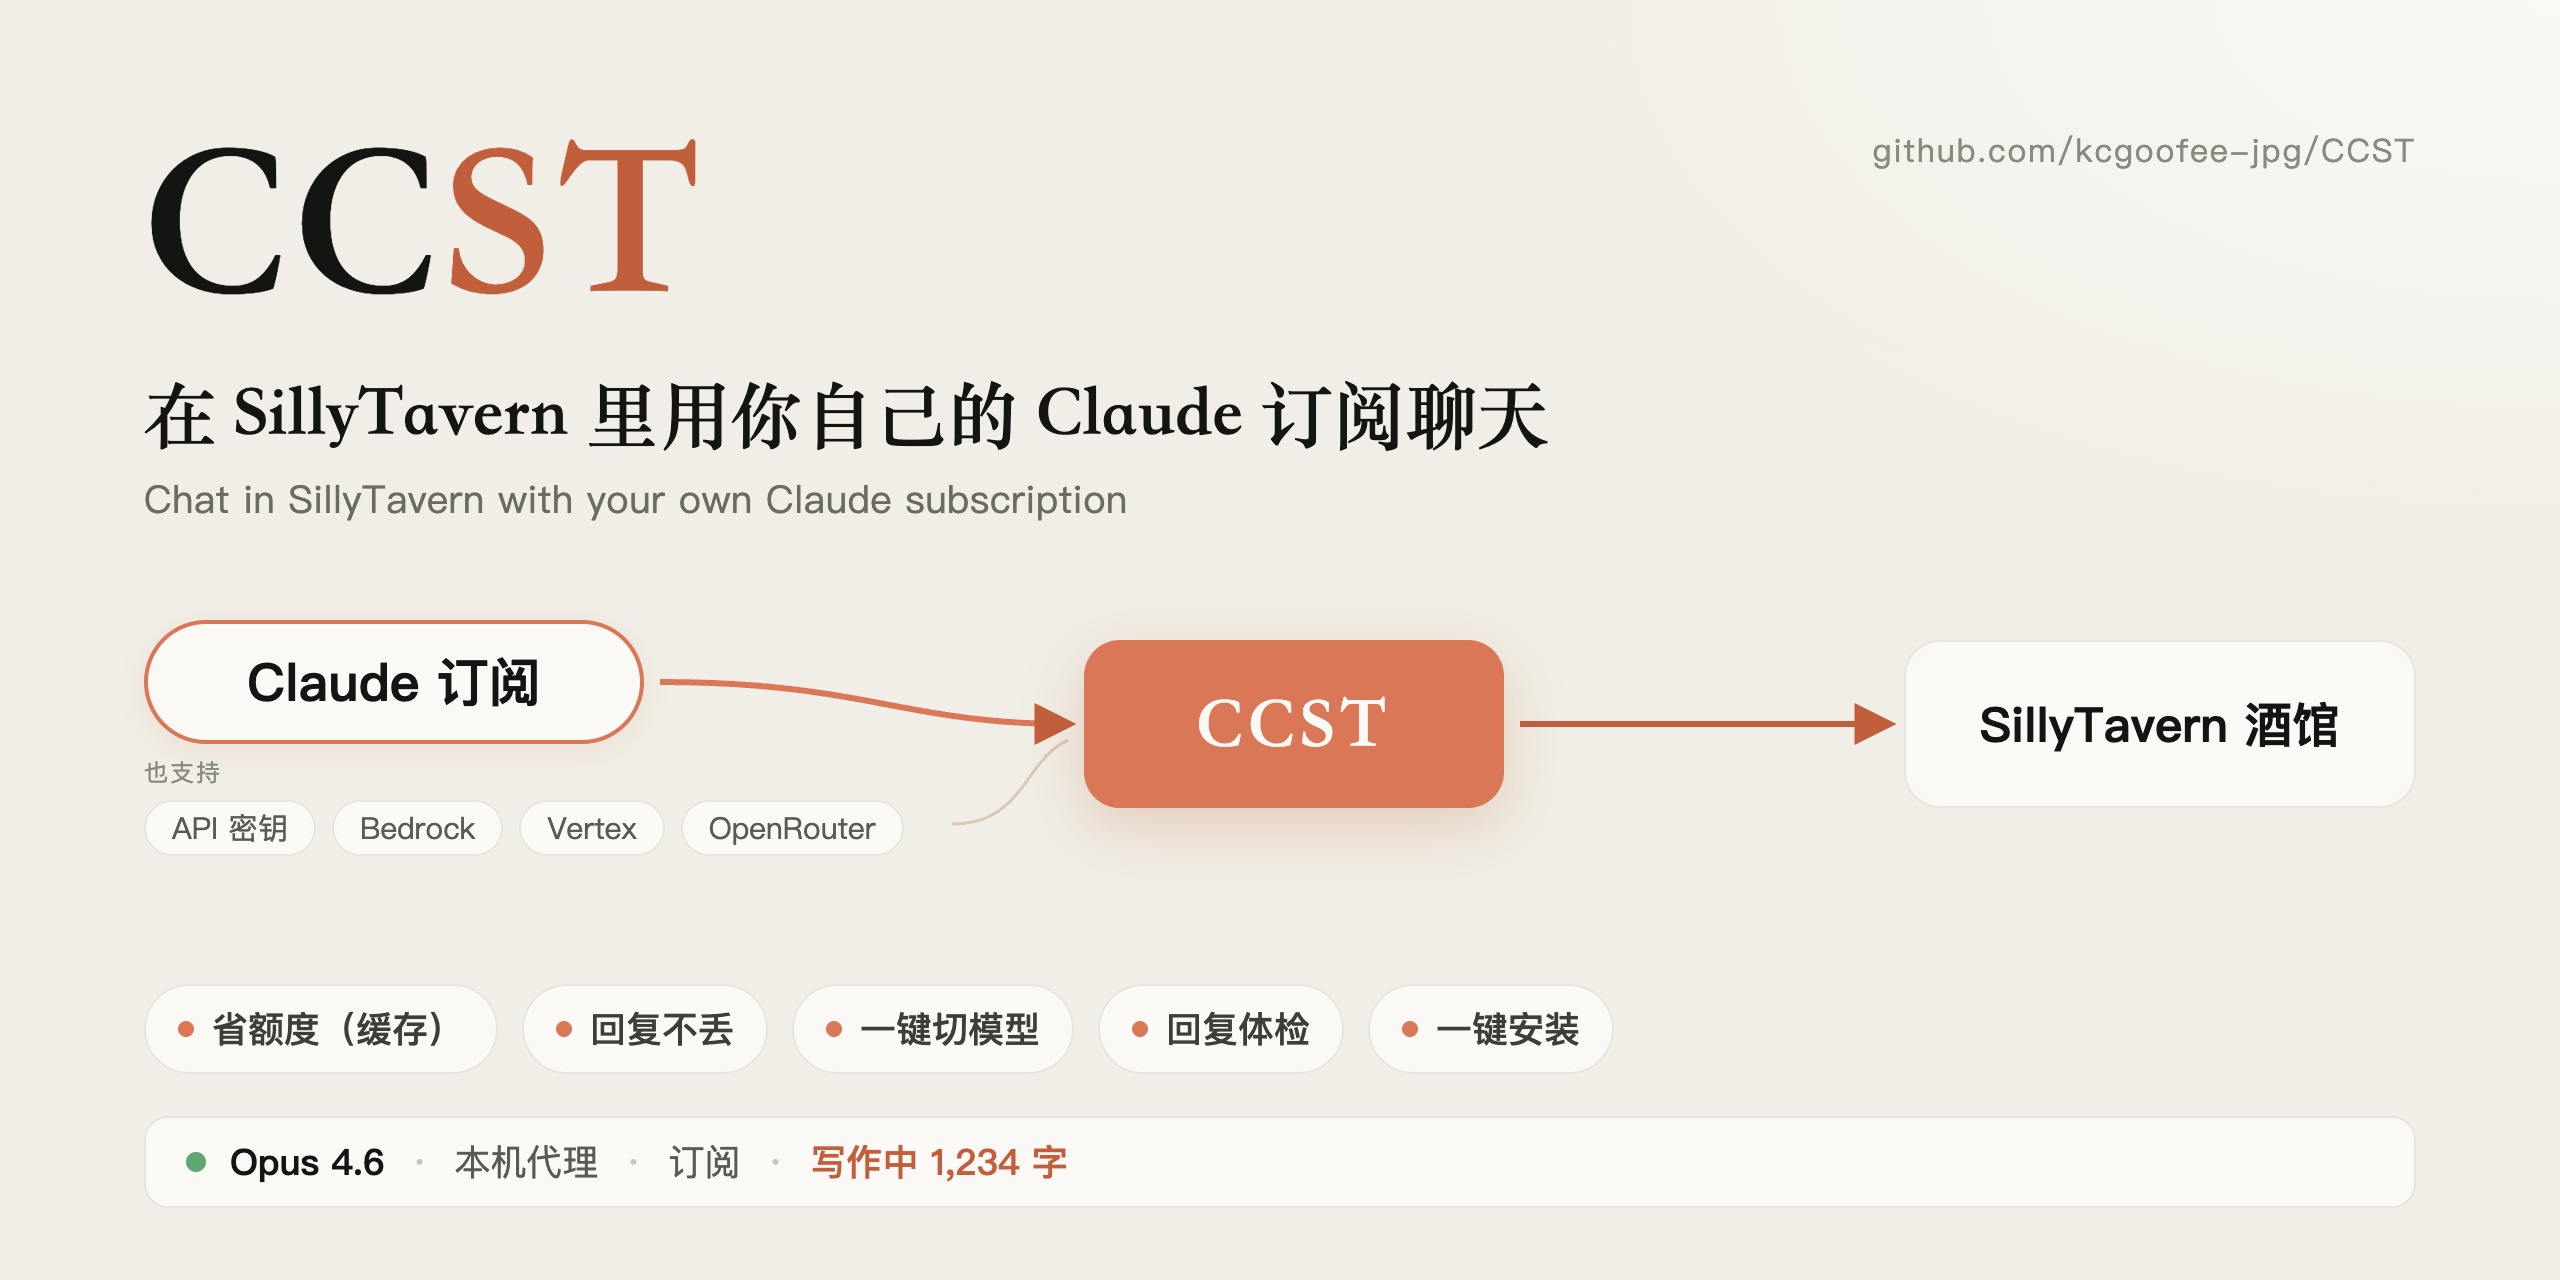
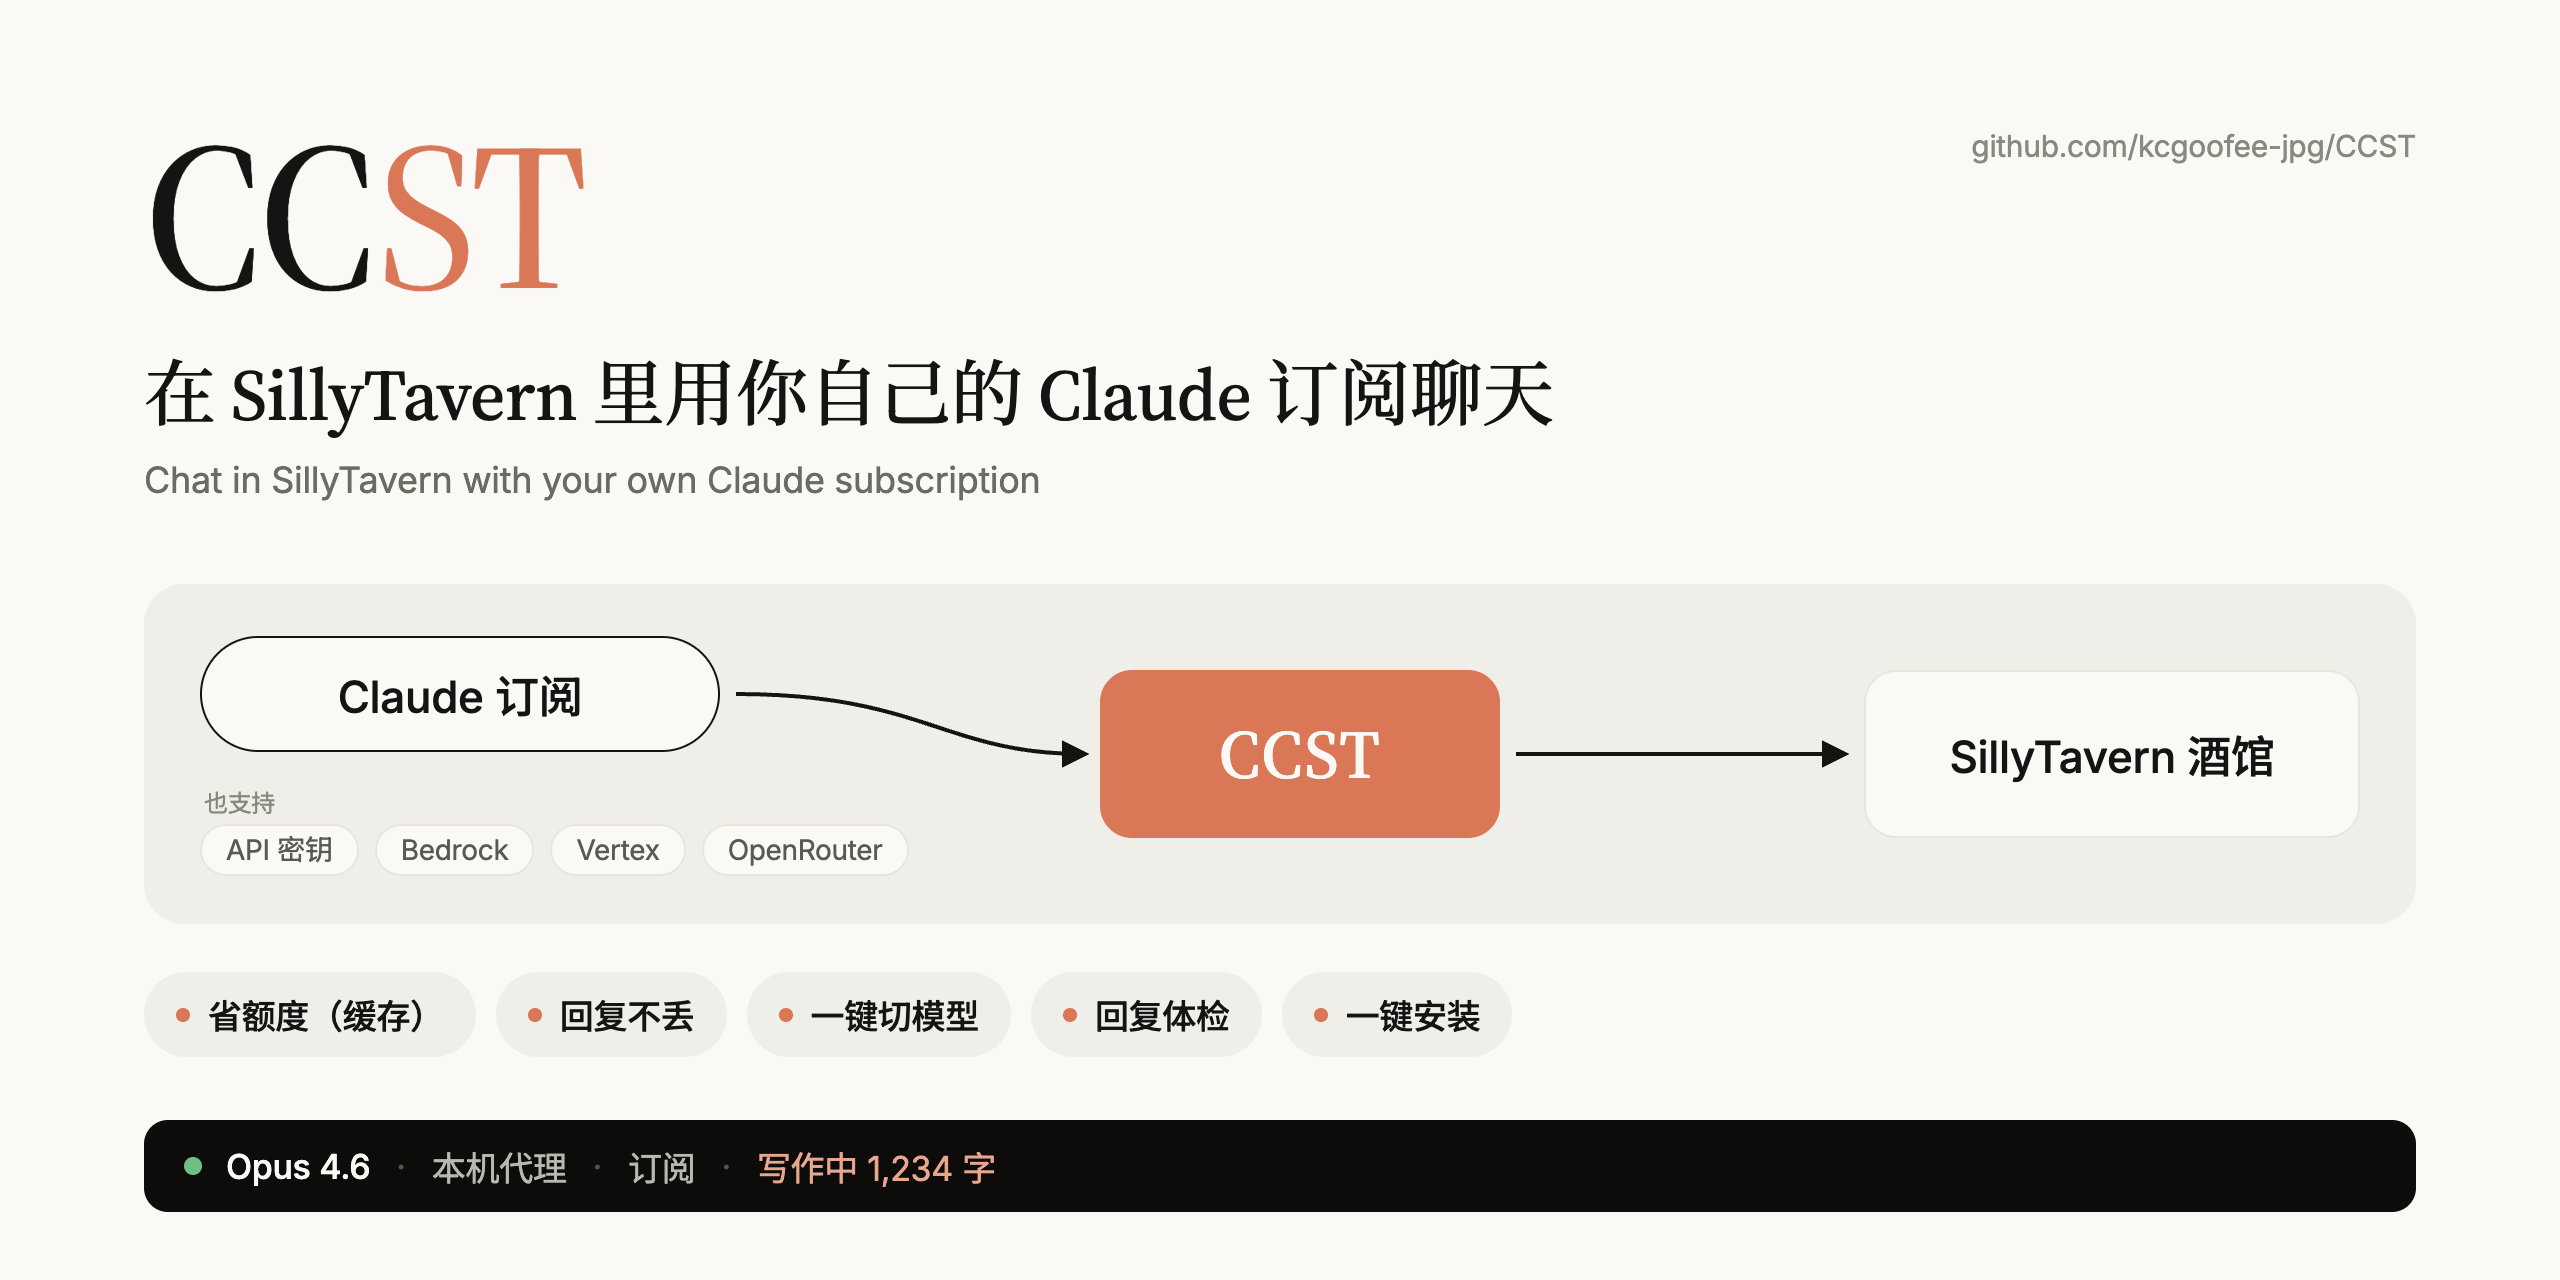
docs(cover): v3 仿 anthropic.com 发布页风格，中英双语自动切换，README 分别引用

diff --git a/docs/assets/cover.html b/docs/assets/cover.html
@@ -1,47 +1,62 @@
 <!doctype html><html lang="zh-CN"><head><meta charset="utf-8"><title>CCST cover</title>
+<link rel="preconnect" href="https://fonts.googleapis.com"><link rel="preconnect" href="https://fonts.gstatic.com" crossorigin>
+<link href="https://fonts.googleapis.com/css2?family=Inter:wght@400;500;600&family=Noto+Sans+SC:wght@400;500&family=Noto+Serif+SC:wght@500;600&family=Source+Serif+4:opsz,wght@8..60,500;8..60,600&display=swap" rel="stylesheet">
 <style>
 *{box-sizing:border-box;margin:0}
 html,body{width:1280px;height:640px;overflow:hidden}
-body{font-family:"Noto Sans SC","PingFang SC","Hiragino Sans GB","Microsoft YaHei",system-ui,sans-serif;color:#3D3D3A;background:#F0EEE6;position:relative}
-body:before{content:"";position:absolute;inset:0;background:radial-gradient(800px 420px at 100% 0%,#FAF9F5 0%,transparent 70%)}
-.serif{font-family:"Noto Serif SC","Songti SC","Source Serif 4",Georgia,serif}
+body{--serif:"Source Serif 4","Noto Serif SC","Songti SC",Georgia,serif;--sans:"Inter","Noto Sans SC","PingFang SC","Microsoft YaHei",system-ui,sans-serif;
+font-family:var(--sans);color:#141413;background:#FAF9F5;position:relative;letter-spacing:-.01em}
 .wrap{position:absolute;inset:0;padding:56px 72px}
-.brand{font-size:112px;font-weight:700;letter-spacing:4px;line-height:1;color:#141413}
-.brand em{font-style:normal;color:#C15F3C}
-.tag{margin-top:14px;font-size:36px;font-weight:700;line-height:1.35;color:#141413}
-.en{margin-top:6px;font-size:19px;color:#6b6a63;letter-spacing:.3px}
-.url{position:absolute;right:72px;top:64px;font-size:16px;color:#8a897f;letter-spacing:1px}
-.flow{position:absolute;left:72px;top:300px;width:1136px;height:170px}
+.brand{font-family:var(--serif);font-size:104px;font-weight:500;letter-spacing:-.02em;line-height:1}
+.brand em{font-style:normal;color:#D97757}
+.tag{margin-top:14px;font-family:var(--serif);font-size:36px;font-weight:500;line-height:1.3}
+.sub{margin-top:8px;font-size:18px;color:#6b6a63}
+.url{position:absolute;right:72px;top:64px;font-size:15px;color:#8a897f}
+.band{position:absolute;left:72px;right:72px;top:292px;height:170px;border-radius:20px;background:#EFEEE9}
+.flow{position:absolute;left:0;top:0;width:100%;height:100%}
 svg.arrows{position:absolute;left:0;top:0;width:1136px;height:170px}
-.main{position:absolute;left:0;top:10px;width:250px;height:62px;border-radius:999px;background:#FAF9F5;border:2px solid #D97757;color:#141413;font-weight:700;font-size:26px;display:flex;align-items:center;justify-content:center;box-shadow:0 4px 14px #d977571f}
-.sec{position:absolute;left:0;top:98px;width:460px;display:flex;flex-wrap:wrap;gap:8px}
-.sec span{font-size:15px;height:28px;line-height:26px;padding:0 13px;border:1px solid #E8E6DC;border-radius:999px;background:#FAF9F5;color:#5a5953}
-.cap{position:absolute;left:0;top:78px;font-size:12px;color:#8a897f;letter-spacing:1px}
-.node{position:absolute;top:20px;height:84px;border-radius:18px;display:flex;align-items:center;justify-content:center;font-weight:700}
-.ccst{left:470px;width:210px;background:#D97757;color:#FAF9F5;font-size:36px;letter-spacing:3px;box-shadow:0 10px 30px #c15f3c40}
-.st{left:880px;width:256px;background:#FAF9F5;border:1px solid #E8E6DC;color:#141413;font-size:24px}
-.chips{position:absolute;left:72px;top:492px;display:flex;gap:12px}
-.chip{padding:9px 16px;border-radius:999px;background:#FAF9F5;border:1px solid #E8E6DC;font-size:18px;font-weight:500;color:#3D3D3A;display:flex;align-items:center}
-.chip:before{content:"";width:8px;height:8px;border-radius:50%;background:#D97757;margin-right:9px}
-.bar{position:absolute;left:72px;right:72px;bottom:36px;height:46px;border-radius:12px;background:#FAF9F5;border:1px solid #E8E6DC;display:flex;align-items:center;padding:0 20px;font-size:18px;color:#5a5953}
-.bar i{font-style:normal;color:#c9c6b8;margin:0 13px}
-.bar .m{color:#141413;font-weight:700}
-.bar .w{color:#C15F3C;font-weight:500}
-.dot{width:10px;height:10px;border-radius:50%;background:#5FA873;margin-right:12px}
+.main{position:absolute;left:28px;top:26px;width:260px;height:58px;border-radius:999px;background:#FAF9F5;border:1px solid #141413;font-weight:500;font-size:22px;display:flex;align-items:center;justify-content:center}
+.cap{position:absolute;left:30px;top:100px;font-size:12px;color:#8a897f}
+.sec{position:absolute;left:28px;top:120px;display:flex;gap:8px}
+.sec span{font-size:14px;height:26px;line-height:24px;padding:0 12px;border:1px solid #E8E6DC;border-radius:999px;background:#FAF9F5;color:#5a5953;white-space:nowrap}
+.sec.one span{border:0;background:none;padding:0;height:auto;line-height:1.2;font-size:15px}
+.node{position:absolute;top:43px;height:84px;border-radius:16px;display:flex;align-items:center;justify-content:center;font-weight:500}
+.ccst{left:478px;width:200px;background:#D97757;color:#FAF9F5;font-family:var(--serif);font-size:34px;letter-spacing:.02em}
+.st{left:860px;width:248px;background:#FAF9F5;border:1px solid #E8E6DC;font-size:22px}
+.chips{position:absolute;left:72px;top:486px;display:flex;gap:10px}
+.chip{padding:9px 16px;border-radius:999px;background:#EFEEE9;font-size:17px;font-weight:500;display:flex;align-items:center}
+.chip:before{content:"";width:7px;height:7px;border-radius:50%;background:#D97757;margin-right:9px}
+.bar{position:absolute;left:72px;right:72px;bottom:34px;height:46px;border-radius:12px;background:#0D0C0B;display:flex;align-items:center;padding:0 20px;font-size:17px;color:#b9b8ae}
+.bar i{font-style:normal;color:#55544d;margin:0 13px}
+.bar .m{color:#FAF9F5;font-weight:500}
+.bar .w{color:#E8A78D}
+.dot{width:9px;height:9px;border-radius:50%;background:#6FBF85;margin-right:12px}
 </style></head><body><div class="wrap">
 <div class="url">github.com/kcgoofee-jpg/CCST</div>
-<div class="brand serif">CC<em>ST</em></div>
-<div class="tag serif">在 SillyTavern 里用你自己的 Claude 订阅聊天</div>
-<div class="en">Chat in SillyTavern with your own Claude subscription</div>
-<div class="flow">
-<svg class="arrows" viewBox="0 0 1136 170"><defs><marker id="a" viewBox="0 0 10 10" refX="8" refY="5" markerWidth="7" markerHeight="7" orient="auto"><path d="M0 0L10 5L0 10z" fill="#C15F3C"/></marker></defs>
-<path d="M258 41C360 41 380 62 462 62" stroke="#D97757" stroke-width="3" fill="none" marker-end="url(#a)"/>
-<path d="M404 112C440 112 440 80 462 70" stroke="#D9C9B8" stroke-width="1.5" fill="none"/>
-<path d="M688 62H872" stroke="#C15F3C" stroke-width="3" fill="none" marker-end="url(#a)"/></svg>
-<div class="main">Claude 订阅</div>
-<div class="cap">也支持</div>
-<div class="sec" style="top:100px"><span>API 密钥</span><span>Bedrock</span><span>Vertex</span><span>OpenRouter</span></div>
-<div class="node ccst serif">CCST</div><div class="node st">SillyTavern 酒馆</div></div>
-<div class="chips"><div class="chip">省额度（缓存）</div><div class="chip">回复不丢</div><div class="chip">一键切模型</div><div class="chip">回复体检</div><div class="chip">一键安装</div></div>
-<div class="bar"><span class="dot"></span><span class="m">Opus 4.6</span><i>·</i>本机代理<i>·</i>订阅<i>·</i><span class="w">写作中 1,234 字</span></div>
-</div></body></html>
+<div class="brand">CC<em>ST</em></div>
+<div class="tag" id="tag"></div>
+<div class="sub" id="sub"></div>
+<div class="band"><div class="flow">
+<svg class="arrows" viewBox="0 0 1136 170"><defs><marker id="a" viewBox="0 0 10 10" refX="8" refY="5" markerWidth="7" markerHeight="7" orient="auto"><path d="M0 0L10 5L0 10z" fill="#141413"/></marker></defs>
+<path d="M296 55C390 55 400 85 470 85" stroke="#141413" stroke-width="2" fill="none" marker-end="url(#a)"/>
+<path d="M520 135" stroke="#ccc" fill="none"/>
+<path d="M686 85H850" stroke="#141413" stroke-width="2" fill="none" marker-end="url(#a)"/></svg>
+<div class="main" id="main"></div>
+<div class="cap" id="cap"></div>
+<div class="sec" id="sec"></div>
+<div class="node ccst">CCST</div><div class="node st" id="st"></div></div></div>
+<div class="chips" id="chips"></div>
+<div class="bar" id="bar"></div>
+</div>
+<script>
+const T={zh:{tag:"在 SillyTavern 里用你自己的 Claude 订阅聊天",sub:"Chat in SillyTavern with your own Claude subscription",main:"Claude 订阅",cap:"也支持",sec:["API 密钥","Bedrock","Vertex","OpenRouter"],one:false,st:"SillyTavern 酒馆",chips:["省额度（缓存）","回复不丢","一键切模型","回复体检","一键安装"],bar:["Opus 4.6","本机代理","订阅","写作中 1,234 字"]},
+en:{tag:"Chat in SillyTavern with your own Claude subscription",sub:"在 SillyTavern 里用你自己的 Claude 订阅聊天",main:"Claude subscription",cap:"Also works with",sec:["API key","Bedrock","Vertex","OpenRouter"],one:false,st:"SillyTavern",chips:["Saves usage (cache)","Replies never lost","One-click model switch","Reply check-up","One-click install"],bar:["Opus 4.6","local proxy","subscription","writing 1,234 chars"]}};
+const q=new URLSearchParams(location.search).get("lang");
+const L=(q==="zh"||q==="en")?q:((navigator.language||"").toLowerCase().startsWith("zh")?"zh":"en");
+const t=T[L];document.documentElement.lang=L==="zh"?"zh-CN":"en";
+const $=id=>document.getElementById(id);
+$("tag").textContent=t.tag;$("sub").textContent=t.sub;$("main").textContent=t.main;$("cap").textContent=t.cap;$("st").textContent=t.st;
+$("sec").innerHTML=t.sec.map(s=>"<span>"+s+"</span>").join("");
+$("chips").innerHTML=t.chips.map(s=>'<div class="chip">'+s+"</div>").join("");
+const b=t.bar;$("bar").innerHTML='<span class="dot"></span><span class="m">'+b[0]+"</span><i>·</i>"+b[1]+"<i>·</i>"+b[2]+'<i>·</i><span class="w">'+b[3]+"</span>";
+</script></body></html>

diff --git a/CHANGELOG.md b/CHANGELOG.md
@@ -5,7 +5,7 @@
 ## 未发布
 
 ### 新增
-- 仓库门面：README 顶部加封面图（`docs/assets/cover.html` 代码绘制，渲染为 `cover.png` / `cover@2x.png`，1280×640 可作 GitHub 社交预览）、更多徽章和导航链接，特性改为 2×3 网格；新增 `SECURITY.md`。
+- 仓库门面：README 顶部加封面图（`docs/assets/cover.html` 代码绘制，渲染为 `cover.png`（中文）/ `cover-en.png`（英文）及 @2x，1280×640 可作 GitHub 社交预览）、更多徽章和导航链接，特性改为 2×3 网格；新增 `SECURITY.md`。
 
 ## 4.3.0 - 2026-10-01
 

diff --git a/README.en.md b/README.en.md
@@ -1,6 +1,6 @@
 <div align="center">
 
-<img src="docs/assets/cover.png" alt="CCST: chat in SillyTavern with your own Claude subscription" width="100%">
+<img src="docs/assets/cover-en.png" alt="CCST: chat in SillyTavern with your own Claude subscription" width="100%">
 
 [简体中文](README.md) · **English**
 
